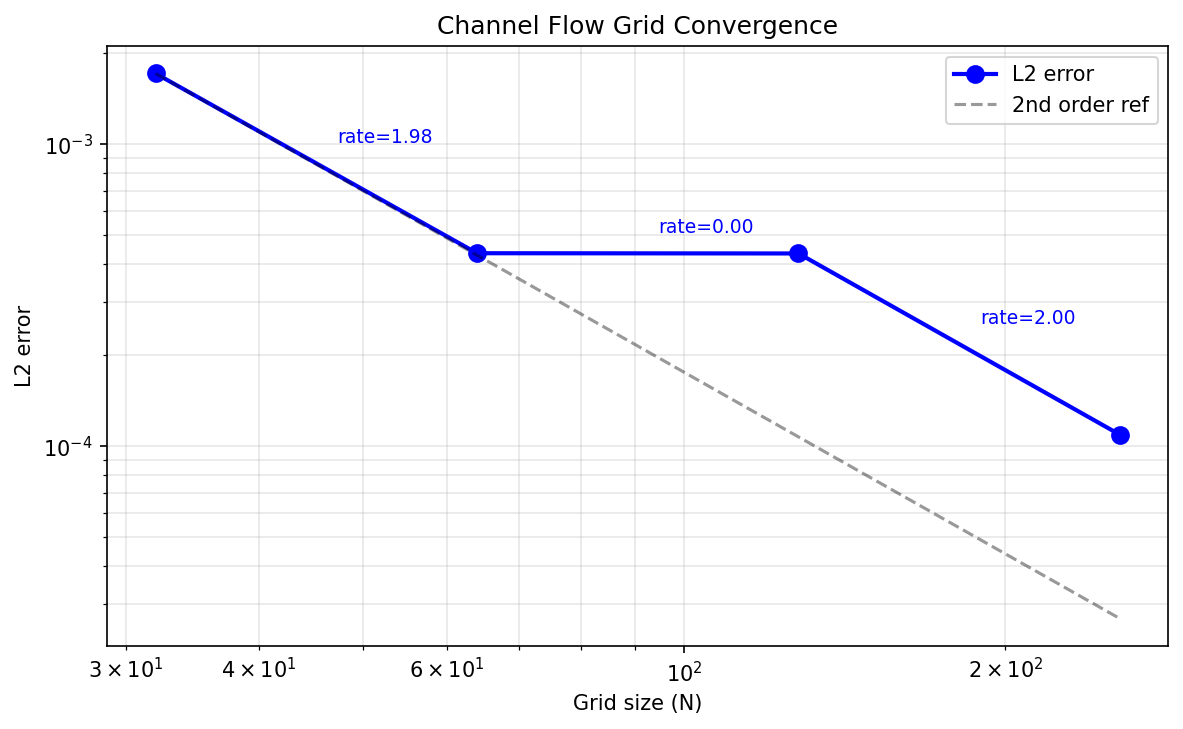
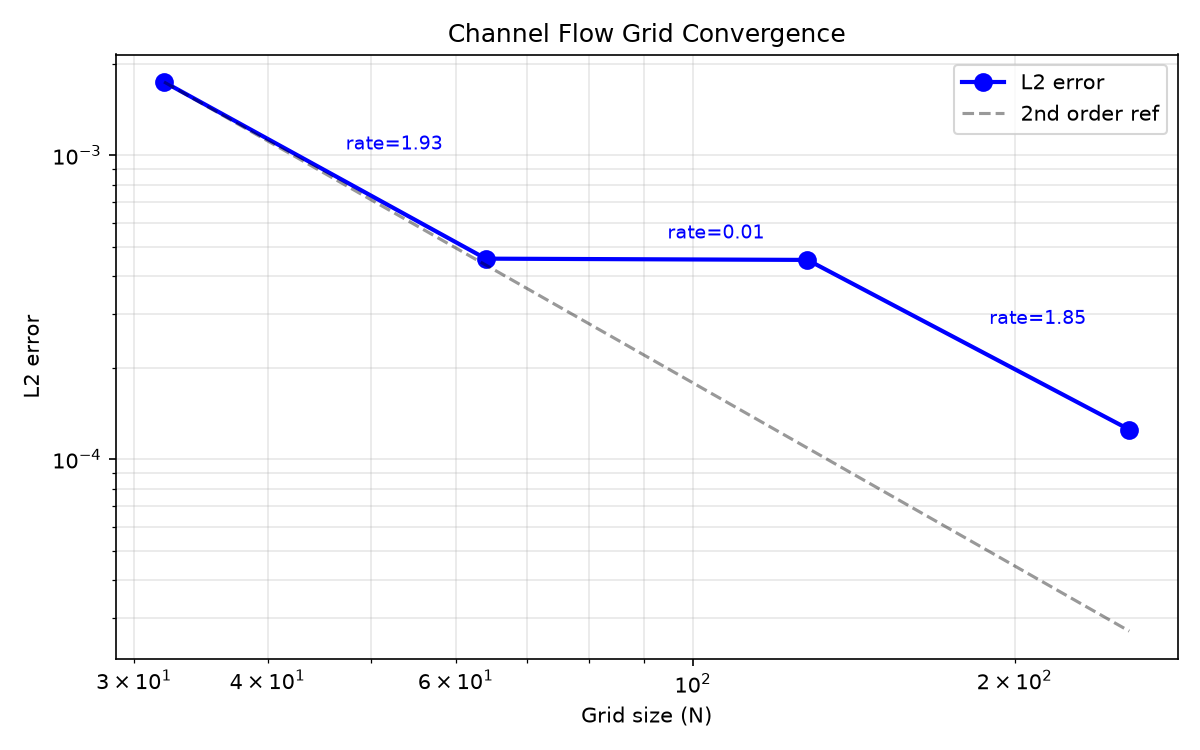
EXAMPLES.md: add channel flow images, validation tables, and convergence plots

diff --git a/EXAMPLES.md b/EXAMPLES.md
@@ -127,12 +127,31 @@ force or by inlet/outlet BCs.
 - **Config variants:** `config_body_force.yaml`, `config_inlet.yaml`
 - **Analytical:** Parabolic profile u(y) = (4*U_max/H^2) * y * (H - y)
 
+### Inlet/Outlet Variant
+
+- **Grid:** 128x32, dt=0.0005, nu=0.01
+- **BCs:** Parabolic inlet, zero-gradient outlet, no-slip walls
+- **Output:** `images/channel_inlet_result.png`
+
+![Channel Flow (Inlet/Outlet)](images/channel_inlet_result.png)
+
 ```bash
-python examples/channel_flow/run.py --variant body-force
 python examples/channel_flow/run.py --variant inlet
 ```
 
-### Validation: Parabolic Profile (t=10s, 64x64)
+### Body-Force Variant
+
+- **Grid:** 128x32, dt=0.0005, nu=0.01
+- **BCs:** Periodic left/right, no-slip walls, constant body force
+- **Output:** `images/channel_body_force_result.png`
+
+![Channel Flow (Body Force)](images/channel_body_force_result.png)
+
+```bash
+python examples/channel_flow/run.py --variant body-force
+```
+
+### Validation: Parabolic Profile (t=10s, 128x32, nu=0.01)
 
 | Variant | L2 error | L∞ error | U_max error |
 |---------|----------|----------|-------------|
@@ -145,3 +164,16 @@ Convergence: ~2nd order in space.
 python -m examples.channel_flow.validate
 python -m examples.channel_flow.convergence
 ```
+
+### Grid Convergence
+
+![Channel Flow Convergence](images/channel_convergence.png)
+
+| Grid | L2 error | Rate |
+|------|----------|------|
+| 32x16 | 1.74e-3 | — |
+| 64x32 | 4.57e-4 | 1.93 |
+| 128x32 | 4.52e-4 | 0.01 |
+| 256x64 | 1.25e-4 | 1.85 |
+
+Rate approaches 2nd order on finer grids; the 128x32 plateau is due to time integration error dominating.
